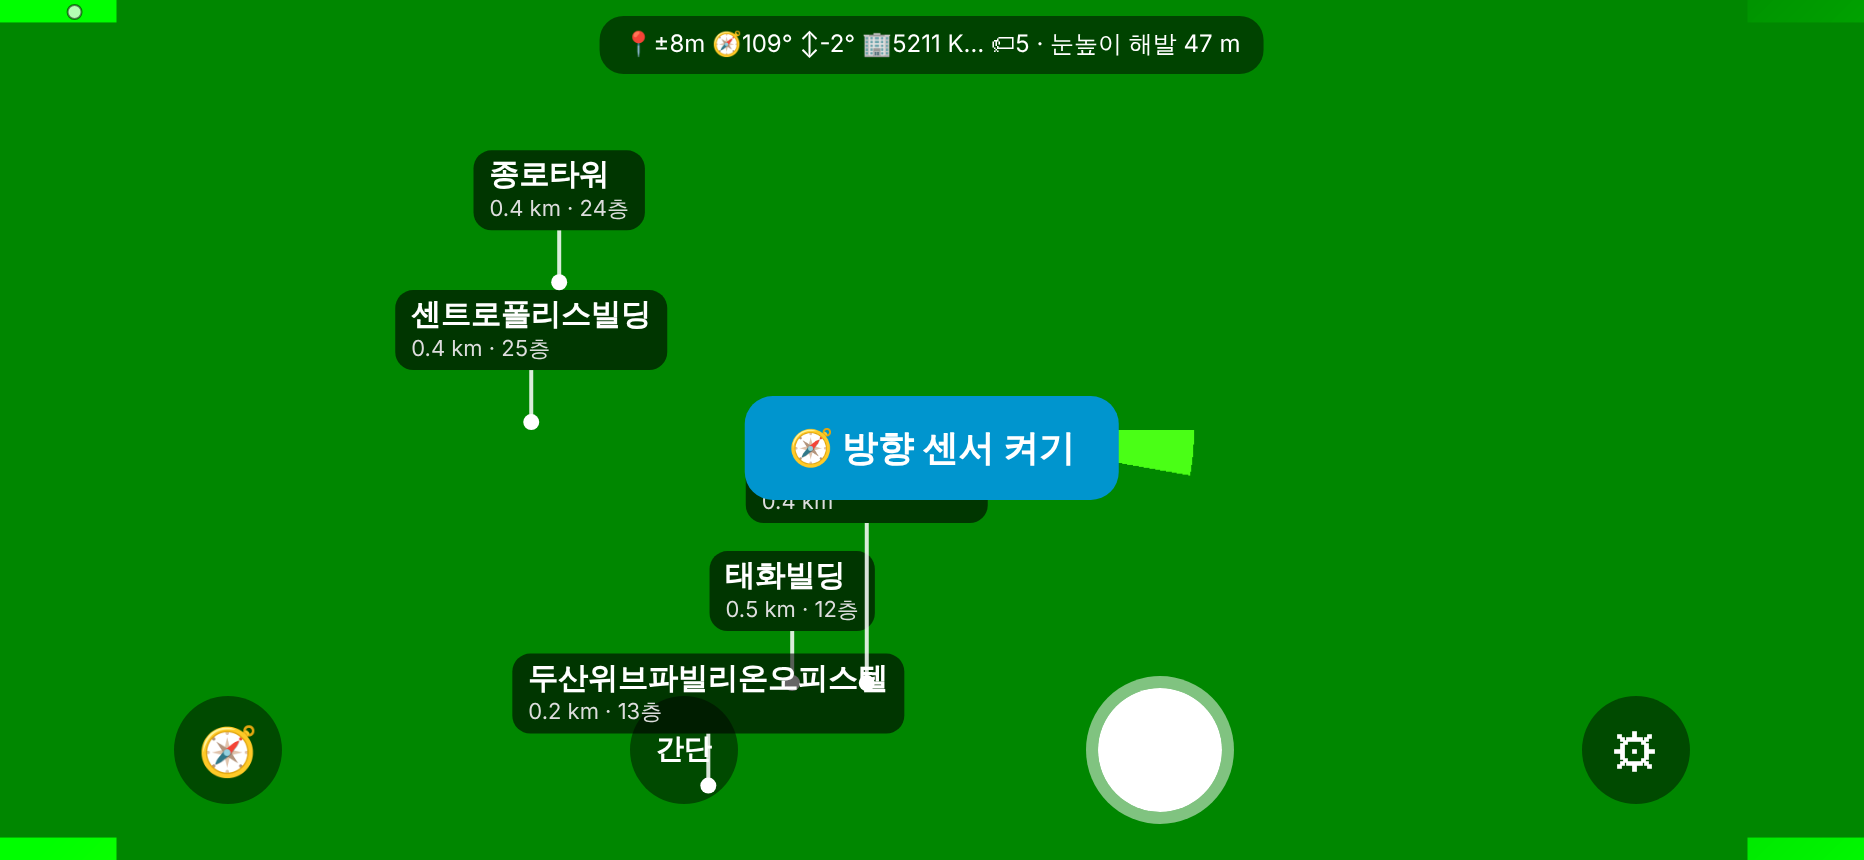
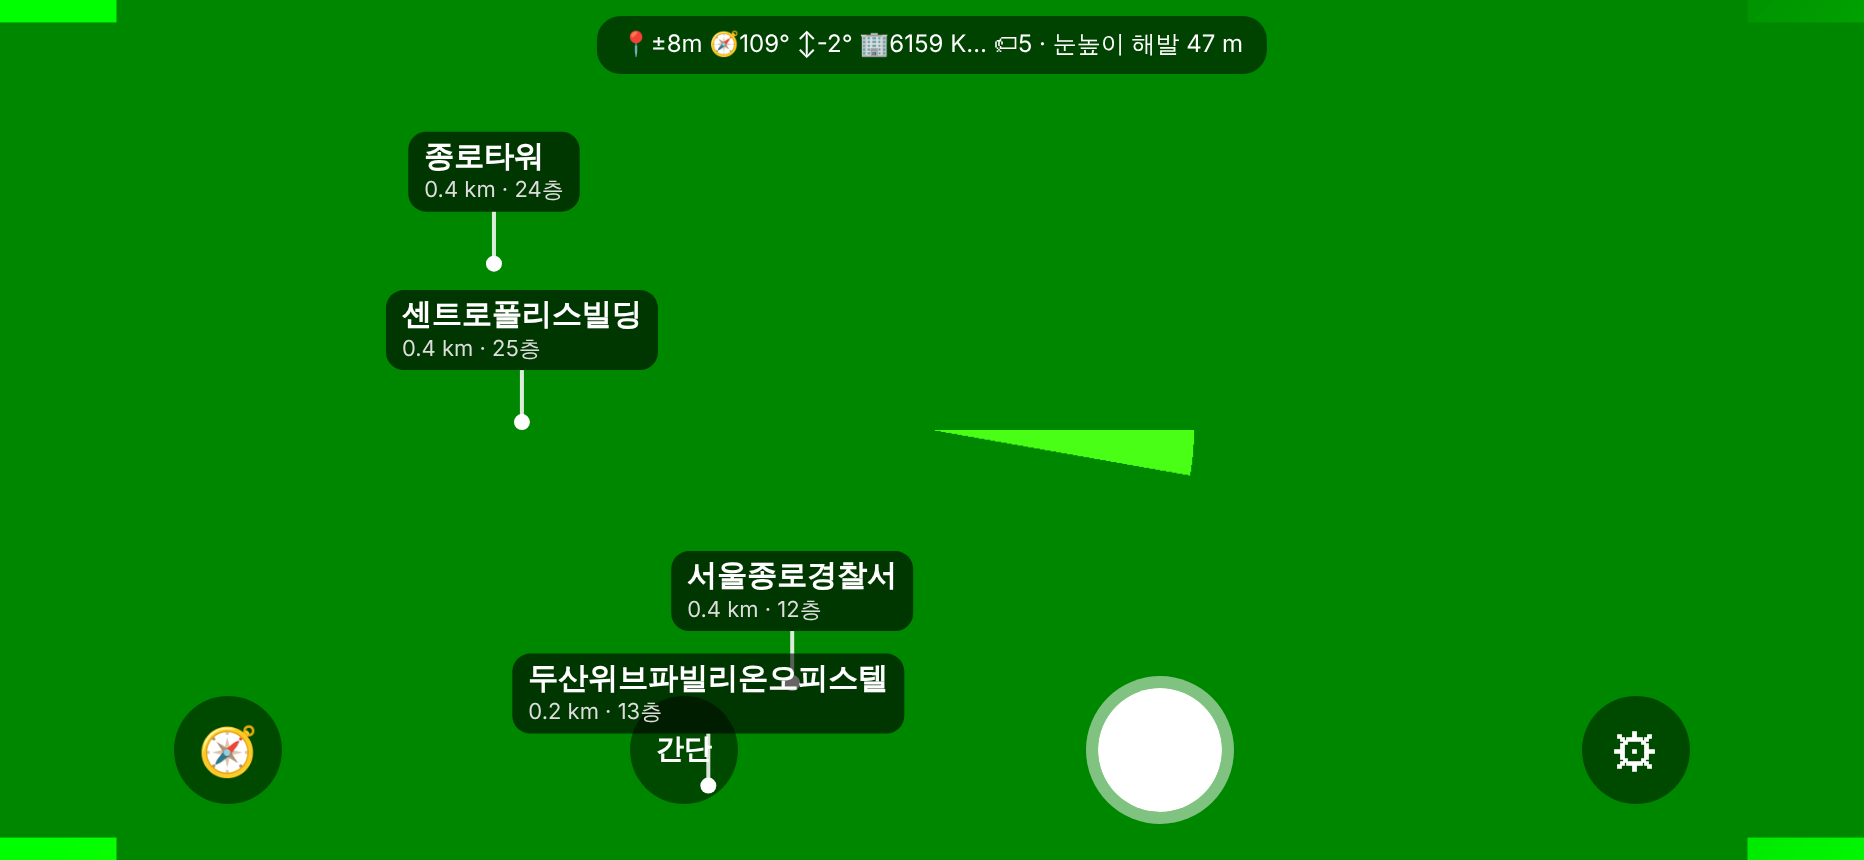
v3.8.1: 폰을 돌린 뒤 영상 크기가 늦게 바뀌어 화각이 1.8배 어긋나던 문제(이름표가 화면 가운데서 바깥쪽·위로 밀림)
Claude-Session: https://claude.ai/code/session_01A7JKvKM9hXvGnAiE87YNR2

diff --git a/app.js b/app.js
@@ -1,5 +1,5 @@
 'use strict';
-/* 저게뭐야? v3.8 — 실시간 카메라에 보이는 건물·산 이름표
+/* 저게뭐야? v3.8.1 — 실시간 카메라에 보이는 건물·산 이름표
    데이터: OpenStreetMap(수도권은 정적 타일 data/, 밖은 Overpass) · 국토교통부 GIS건물통합정보(서울 층수·높이, v3.8) · AWS terrain tiles · 카카오 지도 SDK(건물명) */
 const KAKAO_JS='a4bfdb25e1f0c9bf07c07032b4457773';
 const DECL=-8.8;               // 서울 자편각(°, 서쪽) — iOS 나침반은 자북 기준
@@ -307,6 +307,7 @@ function frame(){
   requestAnimationFrame(frame);
 }
 function frame1(){
+  { const v=$('cam'); if(v.videoWidth&&(v.videoWidth!==VIEW.vw||v.videoHeight!==VIEW.vh||innerWidth!==VIEW.W||innerHeight!==VIEW.H)) updateView(); }   // v3.8.1 가로·세로 영상 크기가 어긋난 채 남지 않게 매 프레임 확인
   const g=$('overlay').getContext('2d'); g.clearRect(0,0,VIEW.W,VIEW.H); drawDots(g);
   const live=new Set();
   for(const l of S.labels){ live.add(l.key); let d=DISP.get(l.key);
@@ -354,7 +355,7 @@ async function start(){
   setTimeout(()=>{ if(S.beta==null) $('sensor').hidden=false; },1500);
   $('start').hidden=true; $('hud').hidden=false;
   addEventListener('deviceorientationabsolute',onOri,true); addEventListener('deviceorientation',onOri,true);
-  $('cam').addEventListener('loadedmetadata',updateView); addEventListener('resize',updateView); updateView();
+  $('cam').addEventListener('loadedmetadata',updateView); $('cam').addEventListener('resize',updateView); addEventListener('resize',updateView); updateView();   // v3.8.1 영상 크기가 바뀔 때도(폰을 돌린 뒤 늦게 바뀜)
   navigator.geolocation.watchPosition(p=>{
     S.lat=p.coords.latitude; S.lon=p.coords.longitude; S.acc=p.coords.accuracy;
     if(!S.loadedAt||bd(S.loadedAt[0],S.loadedAt[1],S.lat,S.lon)[1]>400) loadArea();

diff --git a/index.html b/index.html
@@ -58,6 +58,6 @@
 
 <div id="err" hidden></div>
 <button id="sensor" hidden>🧭 방향 센서 켜기</button>
-<script src="app.js?v=17"></script>
+<script src="app.js?v=18"></script>
 </body>
 </html>
